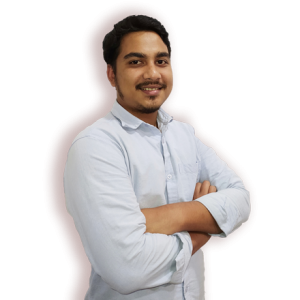
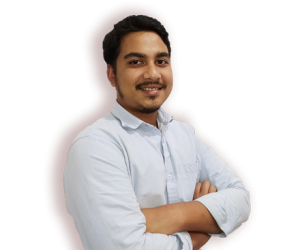
Profile Image: Style Update

Changed region(s): [[0.15, 0.028, 0.84, 1.0]]

diff --git a/src/sass/main.scss b/src/sass/main.scss
@@ -71,8 +71,14 @@ h1, h2, h3, h4, h5 {
         border-radius: 50%;
         padding: 40px;
         height: 250px;
-        width: 280px;
+        width: 250px;
         margin-right: 5rem !important;
+
+        transition: 0.5s ease;
+        &:hover {
+            transform: scale(1.15);
+            box-shadow: 5px 5px 15px rgba(0,0,0,0.6);
+        }
     }
 }
 
